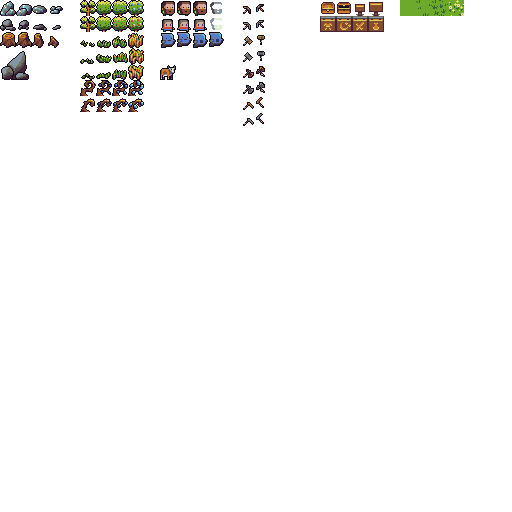
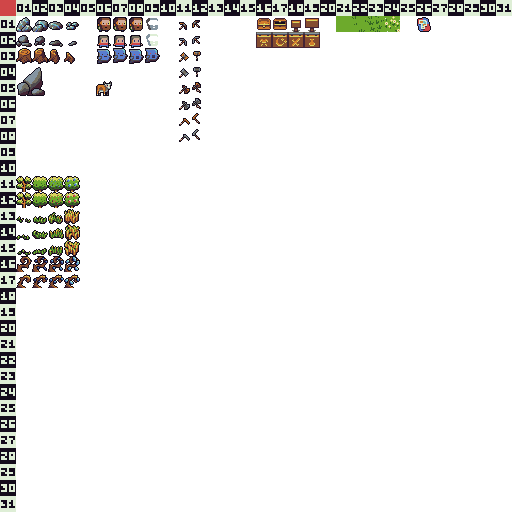
class abstractions, sprite fixes

Changed region(s): [[0.0, 0.0, 1.0, 1.0]]

diff --git a/game.js b/game.js
@@ -37,48 +37,51 @@ function preload() {
 
   //TODO: extract to its own json file. this.load.json("path.json")
   ctx.sprites = {
+    placeholder: {
+      stand: [26, 1]
+    },
     ground: {
-      grass: { base: { start: [26, 0], length: 4 } },
+      grass: { base: { start: [21, 1], length: 4 } },
     },
     things: {
-      rock: { base: { start: [0, 1], length: 2 } },
-      iron_ore: { base: { start: [0, 0], length: 2 } },
-      stump: { base: { start: [0, 2], length: 2 } },
-      chest: { base: { start: [20, 0], length: 2 } },
-      sign: { base: { start: [22, 0], length: 2 } },
+      rock: { base: { start: [1, 2], length: 2 } },
+      iron_ore: { base: { start: [1, 1], length: 2 } },
+      stump: { base: { start: [1, 3], length: 2 } },
+      chest: { base: { start: [16, 1], length: 2 } },
+      sign: { base: { start: [19, 1], length: 2 } },
     },
     alives: {
       dorfs: {
         child: {
-          stand: [10, 1],
-          walk: { start: [11, 1], length: 2 }
+          stand: [6, 2],
+          walk: { start: [7, 2], length: 2 }
         },
         adult: {
-          stand: [10, 0],
-          walk: { start: [11, 0], length: 2, speed: 5 }
+          stand: [6, 1],
+          walk: { start: [7, 1], length: 2, speed: 5 }
         },
         old: {
-          stand: [10, 0],
-          walk: { start: [11, 0], length: 2 },
+          stand: [6, 1],
+          walk: { start: [7, 1], length: 2 },
           addons:{
-            beard_silver: [13, 0]
+            beard_silver: [9, 1]
           }
         },
         senile: {
-          stand: [10, 0],
-          walk: { start: [11, 0], length: 2 },
+          stand: [6, 1],
+          walk: { start: [7, 1], length: 2 },
           addons: {
-            beard_white: [13, 1]
+            beard_white: [9, 2]
           }
         },
         ghost: {
-          idle: { start: [10, 2], length: 2 },
-          haunt: { start: [12, 2], length: 2 }
+          idle: { start: [6, 3], length: 2 },
+          haunt: { start: [8, 3], length: 2 }
         }
       },
       animals: {
         cow: {
-          stand: [10, 4]
+          stand: [6, 5]
         }
       }
     }

diff --git a/alives/mobs/cow.js b/alives/mobs/cow.js
@@ -1,0 +1,59 @@
+import BaseMob from "./baseMob.js"
+import { rand, randOnePerNSec } from "/helpers.js"
+
+export default class Cow extends BaseMob {
+  static objs = []
+  constructor(ctx, opts) {
+    super()
+    this.ctx = ctx
+    opts = opts || {}
+
+    this.destination = undefined
+    this.walk_speed = rand(5, 15) // 0-100
+
+    this.sprite = "alives.animals.cow"
+
+    Cow.objs.push(this)
+    this.changeDest()
+  }
+
+  changeDest() {
+    this.destination = {
+      x: rand(32, this.ctx.game.config.width - 32),
+      y: rand(32, this.ctx.game.config.height - 32),
+    }
+  }
+
+  walkTowardsDest() {
+    // https://phaser.io/news/2018/03/pathfinding-and-phaser-3
+    if (!this.destination) { return }
+
+    var dx = this.destination.x - this.sprite.x
+    var dy = this.destination.y - this.sprite.y
+    if (Math.abs(dx) < 5) { dx = 0 }
+    if (Math.abs(dy) < 5) { dy = 0 }
+
+    if (dx == 0 && dy == 0) {
+      this.destination = undefined
+      this.sprite.anims.stop(null)
+      return
+    }
+
+    // this.sprite.anims.play([this.anim_key, "walk"].join("."), true)
+    this.sprite.flipX = dx < 0
+    var max_speed = 2, max_speed_scale = 100
+    var scaled_speed = (this.walk_speed / max_speed_scale) * max_speed
+    var speed_scale = scaled_speed / (Math.abs(dx) + Math.abs(dy))
+
+    this.sprite.x += dx * speed_scale
+    this.sprite.y += dy * speed_scale
+  }
+
+  tick() {
+    if (randOnePerNSec(10) == 0) {
+      this.changeDest()
+    }
+
+    this.walkTowardsDest()
+  }
+}

diff --git a/alives/villager/villager.js b/alives/villager/villager.js
@@ -1,10 +1,10 @@
-import Base from "./base.js"
+import BaseHumanoid from "./baseHumanoid.js"
 import Tree from "/resources/tree.js"
 import Rock from "/resources/rock.js"
 import Storage from "/resources/storage.js"
 import { sum, sample, rand, scaleVal, randOnePerNSec, randNPerSec } from "/helpers.js"
 
-export default class Villager extends Base {
+export default class Villager extends BaseHumanoid {
   static objs = []
   constructor(ctx, opts) {
     super()
@@ -36,7 +36,7 @@ export default class Villager extends Base {
     // if (!this.profession) { this.changeDest() }
   }
 
-  resourceKlass() {
+  getProfession() {
     if (this.profession == "Lumberjack") {
       return Tree
     } else if (this.profession == "Miner") {
@@ -83,7 +83,7 @@ export default class Villager extends Base {
   selectResource() {
     if (this.profession) {
       if (!this.selected_resource || this.selected_resource.resources <= 0) {
-        this.selected_resource = this.resourceKlass().nearest(this.sprite.x, this.sprite.y)
+        this.selected_resource = this.getProfession().nearest(this.sprite.x, this.sprite.y)
       }
     }
 

diff --git a/resources/tree.js b/resources/tree.js
@@ -1,7 +1,6 @@
-import Base from "./base.js"
-import { scaleX, scaleY, idxFromPos } from "/helpers.js"
+import BaseResource from "./baseResource.js"
 
-export default class Tree extends Base {
+export default class Tree extends BaseResource {
   static objs = []
 
   constructor(ctx, opts) {
@@ -14,13 +13,9 @@ export default class Tree extends Base {
 
     this.resources = 100
 
-    this.sprite = ctx.addSpriteAnim(opts.x, opts.y, "things.stump").setDepth(1)
+    this.sprite = "things.stump"
 
     Tree.objs.push(this)
-  }
-
-  tick() {
-    // Growth?
   }
 
   growth() {

diff --git a/resources/storage.js b/resources/storage.js
@@ -1,7 +1,6 @@
-import Base from "./base.js"
-import { scaleX, scaleY, idxFromPos } from "/helpers.js"
+import BaseResource from "./baseResource.js"
 
-export default class Storage extends Base {
+export default class Storage extends BaseResource {
   static objs = []
 
   constructor(ctx, opts) {
@@ -11,12 +10,8 @@ export default class Storage extends Base {
 
     this.inventory = {}
 
-    this.sprite = ctx.addSpriteAnim(opts.x, opts.y, "things.chest").setDepth(1)
+    this.sprite = "things.chest" 
 
     Storage.objs.push(this)
-  }
-
-  tick() {
-    // Growth?
   }
 }

diff --git a/resources/rock.js b/resources/rock.js
@@ -1,7 +1,6 @@
-import Base from "./base.js"
-import { scaleX, scaleY, idxFromPos } from "/helpers.js"
+import BaseResource from "./baseResource.js"
 
-export default class Rock extends Base {
+export default class Rock extends BaseResource {
   static objs = []
 
   constructor(ctx, opts) {
@@ -14,13 +13,9 @@ export default class Rock extends Base {
 
     this.resources = 100
 
-    this.sprite = ctx.addSpriteAnim(opts.x, opts.y, "things.rock").setDepth(1)
+    this.sprite = "things.rock"
 
     Rock.objs.push(this)
-  }
-
-  tick() {
-    // Growth?
   }
 
   decay() {

diff --git a/resources/baseResource.js b/resources/baseResource.js
@@ -1,21 +1,11 @@
 import { scaleVal } from "/helpers.js"
 
-export default class Base {
+export default class BaseResource {
+
   constructor() {
     // factor is num of resources per sec
     this.min_collect_factor = 10 // per sec
     this.max_collect_factor = 0.5 // per sec
-  }
-
-  // Class method
-  static tick() {
-    this.objs.forEach(function(obj) {
-      obj.tick()
-    })
-  }
-
-  static all() {
-    return this.objs
   }
 
   static nearest(x1, y1) {

diff --git a/alives/villager/baseHumanoid.js b/alives/villager/baseHumanoid.js
@@ -1,0 +1,11 @@
+import BaseAlive from "../baseAlive"
+
+export default class BaseHumanoid extends BaseAlive {
+  #baseHealth = 50
+  #baseInventorySlots = 1
+  #inventory = []
+
+  constructor() {
+  }
+
+}

diff --git a/baseClass.js b/baseClass.js
@@ -1,5 +1,6 @@
-export default class Base {
+export default class BaseClass {
   constructor() {
+    this.sprite = ctx.addSpriteAnim(opts.x, opts.y, "placeholder").setDepth(1)
   }
 
   // Class method

diff --git a/alives/mobs/baseMob.js b/alives/mobs/baseMob.js
@@ -1,0 +1,9 @@
+import BaseAlive from "../baseAlive"
+
+export default class BaseHumanoid extends BaseAlive {
+  #baseHealth = 20
+
+  constructor() {
+  }
+
+}

diff --git a/alives/baseAlive.js b/alives/baseAlive.js
@@ -1,0 +1,6 @@
+import BaseClass from "../../baseClass"
+
+export default class BaseMob extends BaseClass  {
+  #baseHealth
+  #baseMoveSpeed
+}
